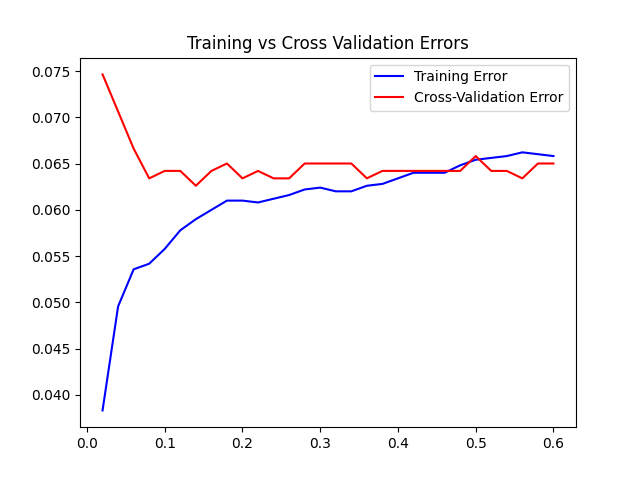
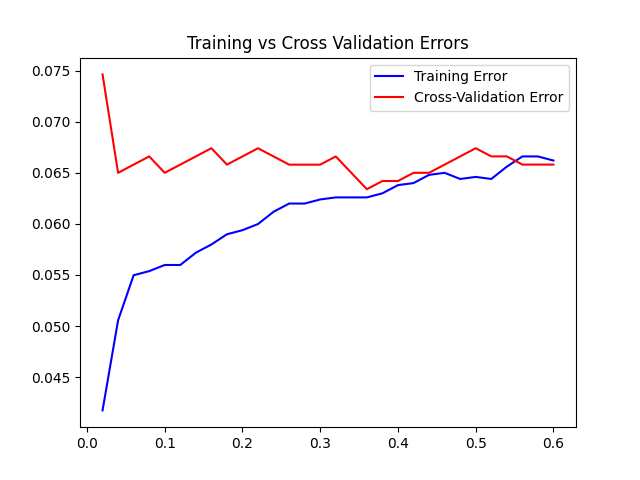
adds answers file

diff --git a/SvmClassifier.py b/SvmClassifier.py
@@ -5,8 +5,9 @@ from sklearn.svm import SVC
 
 class SvmClassifier:
     def __init__(self):
-        self._errors = []
+        self._errors = {}
         self._svc = None
+        self._best_c = 1
 
     def _svc_err(self, X_r, Y_r, tr_ix, va_ix, c, gamma):
         svc = SVC(kernel='rbf', C=c, gamma=gamma)
@@ -17,16 +18,17 @@ class SvmClassifier:
 
         return train_err, valid_err
 
-    def optimize_parameters(self, X_r, Y_r, folds, g_range, c_range):
+    def optimize_parameters(self, X_r, Y_r, folds, g_range, c_range = [1, 1, 1]):
         kfold = StratifiedKFold(n_splits=folds)
 
         best_c = best_gamma = 0
         best_valid_err = 1
 
         for gamma in np.arange(g_range[0], g_range[1] + g_range[2], g_range[2]):
-            bg_t_err = bg_v_err = 1
-
             for c in np.arange(c_range[0], c_range[1] + c_range[2], c_range[2]):
+                if (c not in self._errors):
+                    self._errors[c] = []
+                
                 train_err = valid_err = 0
 
                 for tr_ix, va_ix in kfold.split(Y_r, Y_r):
@@ -39,11 +41,9 @@ class SvmClassifier:
                     best_c = c
                     best_gamma = gamma
 
-                if (valid_err < bg_v_err):
-                    bg_v_err = valid_err
-                    bg_t_err = train_err
+                self._errors[c].append([gamma, train_err, valid_err])
 
-            self._errors.append([gamma, bg_t_err, bg_v_err])
+        self._best_c = best_c
 
         return best_c, best_gamma, best_valid_err
 
@@ -64,10 +64,10 @@ class SvmClassifier:
         return self._svc.score(X_t, Y_t)
 
     def plot_errors(self, save_fig=True, fig_name='SVM.png'):
-        errors = np.array(self._errors)
+        errors = np.array(self._errors[self._best_c])   
 
         plt.figure()
-        plt.title('Training vs Cross Validation Errors')
+        plt.title(f'Training vs Cross Validation Errors (C={self._best_c})')
         plt.plot(errors[:,0], errors[:,1], 'b', label='Training Error')
         plt.plot(errors[:,0], errors[:,2], 'r', label='Cross-Validation Error')
         plt.legend()

diff --git a/TP1.py b/TP1.py
@@ -54,15 +54,15 @@ print("\nOptimizing SVM parameters...")
 svc = SvmClassifier()
 svc_c, svc_g, svc_valid_err = svc.optimize_parameters(Xs_train, Ys_train, 5, [0.2, 6, 0.2], [1, 1000, 100])
 
-print("SVM - Best C:", svc_c)
-print("SVM - Best Gamma:", svc_g)
+print("SVM - Best C:               ", svc_c)
+print("SVM - Best Gamma:           ", svc_g)
 print("SVM - Best validation error:", svc_valid_err)
 
 svc.fit(Xs_train, Ys_train, svc_g, svc_c)
 svc_pred = svc.predict(Xs_test)
 svc_test_err = 1 - svc.score(Xs_test, Ys_test)
 
-print("SVM - Test Error:", svc_test_err)
+print("SVM - Test Error:           ", svc_test_err)
 
 #### Classifier comparison ####
 
@@ -71,18 +71,18 @@ nb_gaussian_errors, nb_gaussian_ntest = normal_test(Ys_test, nb_gaussian_pred)
 svc_errors, svc_ntest = normal_test(Ys_test, svc_pred)
 
 print("\n---- Normal Test ----")
-print("Naive Bayes with KDE:\t\t", nb_kde_errors, "+-", nb_kde_ntest)
-print("Naive Bayes with Gaussian:\t", nb_gaussian_errors, "+-", nb_gaussian_ntest)
-print("Naive Bayes with SVM:\t\t", svc_errors, "+-", svc_ntest)
+print("Naive Bayes with KDE:     ", nb_kde_errors, "+-", nb_kde_ntest)
+print("Naive Bayes with Gaussian:", nb_gaussian_errors, "+-", nb_gaussian_ntest)
+print("SVM:                      ", svc_errors, "+-", svc_ntest)
 
 nb_kde_vs_nb_gaussian = mcnemar_test(Ys_test, nb_kde_pred, nb_gaussian_pred)
 nb_kde_vs_svc = mcnemar_test(Ys_test, nb_kde_pred, svc_pred) 
 nb_gaussian_vs_svc = mcnemar_test(Ys_test, nb_gaussian_pred, svc_pred)
 
 print("\n---- McNemar's Test ----")
-print("Naive Bayes with KDE vs Naive Bayes with Gaussian:\t", nb_kde_vs_nb_gaussian)
-print("Naive Bayes with KDE vs Support Vector Machine:\t\t", nb_kde_vs_svc)
-print("Naive Bayes with Gaussian vs Support Vector Machine:\t", nb_gaussian_vs_svc)
+print("Naive Bayes with KDE vs Naive Bayes with Gaussian:  ", nb_kde_vs_nb_gaussian)
+print("Naive Bayes with KDE vs Support Vector Machine:     ", nb_kde_vs_svc)
+print("Naive Bayes with Gaussian vs Support Vector Machine:", nb_gaussian_vs_svc)
 
 nb_kde.plot_errors()
 svc.plot_errors()
